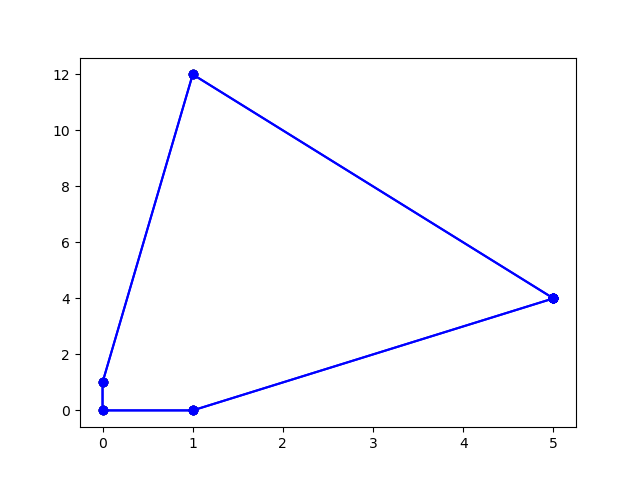
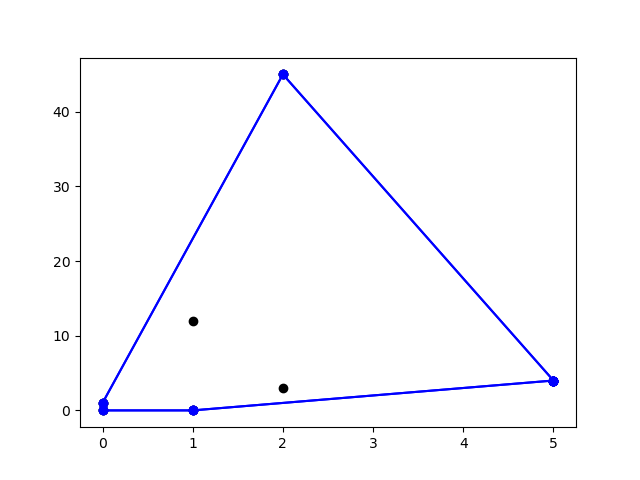
working on mongodb interfacing

diff --git a/frontend/src/components/Dropdown.js b/frontend/src/components/Dropdown.js
@@ -1,0 +1,56 @@
+import React, { useEffect, useState} from "react";
+
+import "./Dropdown.css";
+
+const Icon = () => {
+  return (
+    <svg height="20" width="20" viewBox="0 0 20 20">
+      <path d="M4.516 7.548c0.436-0.446 1.043-0.481 1.576 0l3.908 3.747 3.908-3.747c0.533-0.481 1.141-0.446 1.574 0 0.436 0.445 0.408 1.197 0 1.615-0.406 0.418-4.695 4.502-4.695 4.502-0.217 0.223-0.502 0.335-0.787 0.335s-0.57-0.112-0.789-0.335c0 0-4.287-4.084-4.695-4.502s-0.436-1.17 0-1.615z"></path>
+    </svg>
+  );
+};
+
+const Dropdown = ({ placeHolder, options}) => {
+  const [showMenu, setShowMenu] = useState(false);
+
+  useEffect(()=>{
+    const handler = () => setShowMenu(false);
+
+    window.addEventListener("click", handler);
+    return() => {
+      window.removeEventListener("click", handler);
+    };
+  });
+  const handleInputClick = (e) => {
+    e.stopPropagation();
+    setShowMenu(!showMenu);
+  };
+
+  const getDisplay = () => {
+    return placeHolder;
+  };
+
+  return (
+    <div className="dropdown-container">
+      <div onClick={handleInputClick} className="dropdown-input">
+        <div className="dropdown-selected-value">{getDisplay()}</div>
+        <div className="dropdown-tools">
+          <div className="dropdown-tool">
+            <Icon />
+          </div>
+        </div>
+    </div>
+    {showMenu && (
+      <div className="dropdown-menu">
+        {options.map((option) => (
+          <div key={option.value} className="dropdown-item">
+            {option.label}
+            </div>
+        ))}
+      </div>
+    )}
+    </div>
+  );
+};
+
+export default Dropdown;

diff --git a/frontend/src/App.js b/frontend/src/App.js
@@ -2,13 +2,13 @@ import logo from './logo.svg';
 import gscan from './gifs/gscan.gif'
 import './App.css';
 import React, { useEffect, useState } from 'react';
-
+import Dropdown from './components/Dropdown'
 class CoordinateInput extends React.Component {
   constructor(props) {
     super(props);
 
     this.state = {
-      value: window.localStorage.getItem('value'),
+      value: window.localStorage.getItem('value') || '0 0\n 2 0\n 0 2',
     };
 
     this.handleChange = this.handleChange.bind(this);
@@ -55,7 +55,8 @@ class CoordinateInput extends React.Component {
         <label>
           Points:
           <br></br>
-          <textarea value={this.state.value} onChange={this.handleChange} style={{height : "510px", width : "465px", fontSize : "40px",}} />
+          <textarea value={this.state.value} onChange={this.handleChange} style={{height : "510px", width : "465px", fontSize : "40px",}} 
+                    maxlength={1000} />
           <br></br>
         </label>
         <input type="submit" value="Submit" />
@@ -80,8 +81,9 @@ export default function MyApp() {
       <h1 style={{position: "relative", left: "85px"}}>Graham Scan Visualizer</h1>
       <p style={{position: "relative", left: "89px"}}>Input some coordinates and watch the magic happen.</p>
       <p style={{position: "relative", left: "89px"}}>Every two space seperated values will be considered a 2D point.</p>
-      <CoordinateInput />
+      <CoordinateInput/>
       <Preview/>
+      <Dropdown placeHolder="Past Submissions" options={[{value: "red", label:"red"}]}/> 
     </div>
   );
 }

diff --git a/frontend/src/components/Dropdown.css b/frontend/src/components/Dropdown.css
@@ -1,0 +1,43 @@
+.dropdown-container {
+    text-align: left;
+    border: 1px solid #ccc;
+    position: absolute;
+    border-radius: 5px;
+    width: 140px;
+    height: 21px;
+    bottom: 76px;
+    left: 175px;
+    font-size: 13px;
+  }
+  
+  .dropdown-input {
+    padding: 5px;
+    display: flex;
+    align-items: center;
+    justify-content: space-between;
+    user-select: none;
+  }
+  .dropdown-input {
+    padding: 5px;
+    display: flex;
+    align-items: center;
+    justify-content: space-between;
+    user-select: none;
+  }
+  .dropdown-menu{
+    position: absolute;
+    transform: translateY(4px);
+    width: 100%;
+    border: 1px solid #ccc;
+    border-radius: 5px;
+    overflow: auto;
+    max-height: 150px;
+    background-color: #fff;
+  }
+  .dropdown-item{
+    padding: 5px;
+    cursor: pointer;
+  }
+  .dropdown-item:hover{
+    background-color: #9fc3f870;
+  }

diff --git a/app.py b/app.py
@@ -39,17 +39,13 @@ def addsubmission():
     
     result = submissions_col.insert_one({"vals": sub})
     update_gif(result.inserted_id)
+    print(result, file=sys.stderr)
     return {"result": str(result.inserted_id)}
   # Save the item to the database
 
 @app.route("/profile")
 def app_profile():
-    print("hello!", file=sys.stderr)
     return {"Systems": "Nominal"}
-
-@app.route("/ping")
-def ping():
-    return {"ping": "pong!"}
 
 if __name__ == "__main__":
     app.run(debug=True, port=8000)
